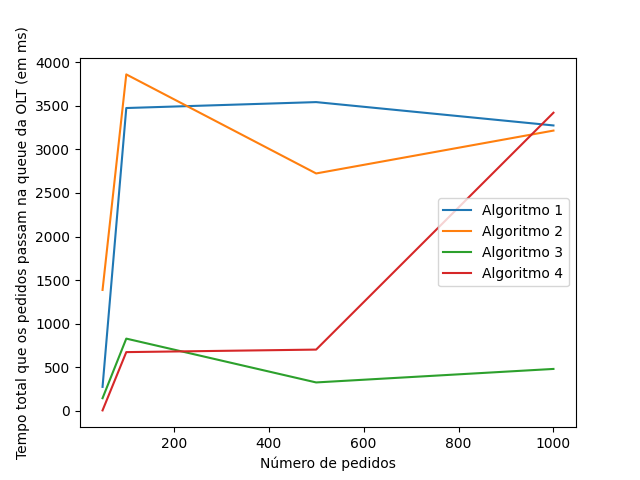
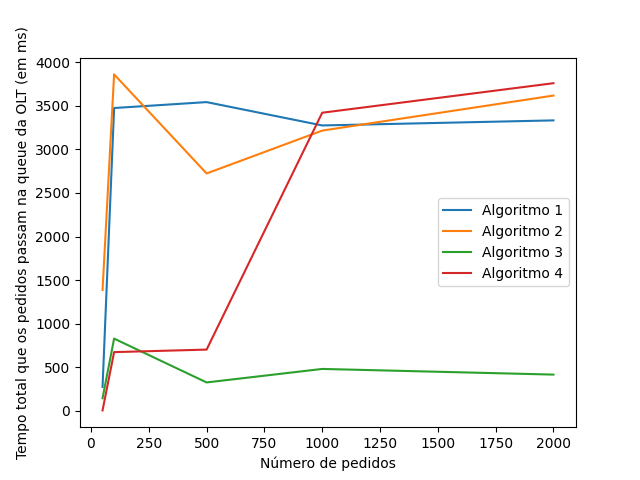
:chart_with_upwards_trend: Adds seed 34 two thousand message run results

diff --git a/charts/graphics_drawer.py b/charts/graphics_drawer.py
@@ -173,32 +173,32 @@ def timedout_percentage_chart_random_7():
 
 # Seed 3: 34
 
-number_of_requests_random_34 = [50, 100, 500, 1000]
+number_of_requests_random_34 = [50, 100, 500, 1000, 2000]
 
-avg_time_total_algorithm_1_random_34 = [14595.0, 58628.0, 249483.0, 452312.0]
-avg_time_total_algorithm_2_random_34 = [16367.0, 68849.0, 214793.0, 452081.0]
-avg_time_total_algorithm_3_random_34 = [17349.0, 72169.0, 246215.0, 521745.0]
-avg_time_total_algorithm_4_random_34 = [22635.0, 71911.0, 258507.0, 470040.0]
+avg_time_total_algorithm_1_random_34 = [14595.0, 58628.0, 249483.0, 452312.0, 952082.0]
+avg_time_total_algorithm_2_random_34 = [16367.0, 68849.0, 214793.0, 452081.0, 986418.0]
+avg_time_total_algorithm_3_random_34 = [17349.0, 72169.0, 246215.0, 521745.0, 1020718.0]
+avg_time_total_algorithm_4_random_34 = [22635.0, 71911.0, 258507.0, 470040.0, 970580.0]
 
-avg_time_broker_queue_algorithm_1_random_34 = [5.0, 5.0, 5.0, 5.0]
-avg_time_broker_queue_algorithm_2_random_34 = [7.0, 6.0, 5.0, 5.0]
-avg_time_broker_queue_algorithm_3_random_34 = [12561.0, 65679.0, 240209.0, 515180.0]
-avg_time_broker_queue_algorithm_4_random_34 = [17503.0, 65537.0, 252059.0, 463131.0]
+avg_time_broker_queue_algorithm_1_random_34 = [5.0, 5.0, 5.0, 5.0, 4.0]
+avg_time_broker_queue_algorithm_2_random_34 = [7.0, 6.0, 5.0, 5.0, 4.0]
+avg_time_broker_queue_algorithm_3_random_34 = [12561.0, 65679.0, 240209.0, 515180.0, 1014531.0]
+avg_time_broker_queue_algorithm_4_random_34 = [17503.0, 65537.0, 252059.0, 463131.0, 963344.0]
 
-avg_time_worker_queue_algorithm_1_random_34 = [11257.0, 51868.0, 242520.0, 445536.0]
-avg_time_worker_queue_algorithm_2_random_34 = [11919.0, 61709.0, 208655.0, 445368.0]
-avg_time_worker_queue_algorithm_3_random_34 = [0.0, 0.0, 0.0, 0.0]
-avg_time_worker_queue_algorithm_4_random_34 = [0.0, 0.0, 0.0, 0.0]
+avg_time_worker_queue_algorithm_1_random_34 = [11257.0, 51868.0, 242520.0, 445536.0, 945258.0]
+avg_time_worker_queue_algorithm_2_random_34 = [11919.0, 61709.0, 208655.0, 445368.0, 979313.0]
+avg_time_worker_queue_algorithm_3_random_34 = [0.0, 0.0, 0.0, 0.0, 0.0]
+avg_time_worker_queue_algorithm_4_random_34 = [0.0, 0.0, 0.0, 0.0, 0.0]
 
-avg_time_olt_queue_algorithm_1_random_34 = [274.0, 3475.0, 3543.0, 3275.0]
-avg_time_olt_queue_algorithm_2_random_34 = [1387.0, 3861.0, 2724.0, 3216.0]
-avg_time_olt_queue_algorithm_3_random_34 = [144.0, 828.0, 325.0, 480.0]
-avg_time_olt_queue_algorithm_4_random_34 = [4.0, 673.0, 702.0, 3421.0]
+avg_time_olt_queue_algorithm_1_random_34 = [274.0, 3475.0, 3543.0, 3275.0, 3333.0]
+avg_time_olt_queue_algorithm_2_random_34 = [1387.0, 3861.0, 2724.0, 3216.0, 3618.0]
+avg_time_olt_queue_algorithm_3_random_34 = [144.0, 828.0, 325.0, 480.0, 415.0]
+avg_time_olt_queue_algorithm_4_random_34 = [4.0, 673.0, 702.0, 3421.0, 3760.0]
 
-timedout_percentage_algorithm_1_random_34 = [0.02, 0.1, 0.1, 0.083]
-timedout_percentage_algorithm_2_random_34 = [0.04, 0.09, 0.072, 0.08]
-timedout_percentage_algorithm_3_random_34 = [0.02, 0.03, 0.01, 0.019]
-timedout_percentage_algorithm_4_random_34 = [0.02, 0.03, 0.02, 0.081]
+timedout_percentage_algorithm_1_random_34 = [0.02, 0.1, 0.1, 0.083, 0.0835]
+timedout_percentage_algorithm_2_random_34 = [0.04, 0.09, 0.072, 0.08, 0.0875]
+timedout_percentage_algorithm_3_random_34 = [0.02, 0.03, 0.01, 0.019, 0.014]
+timedout_percentage_algorithm_4_random_34 = [0.02, 0.03, 0.02, 0.081, 0.0915]
 
 def average_time_total_chart_random_34():
     plt.plot(number_of_requests_random_34, avg_time_total_algorithm_1_random_34, label = "Algoritmo 1")
